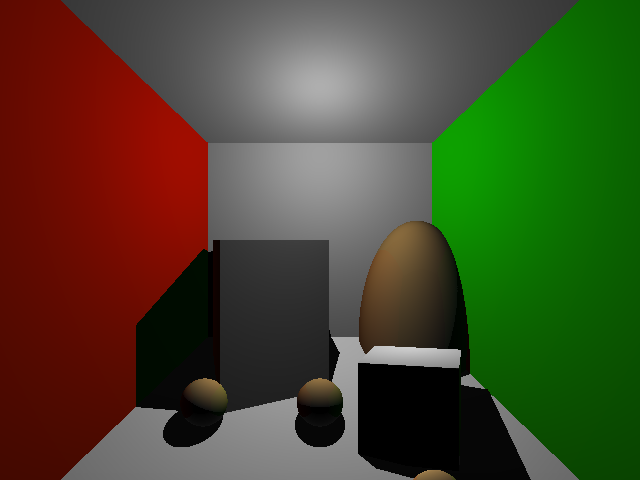
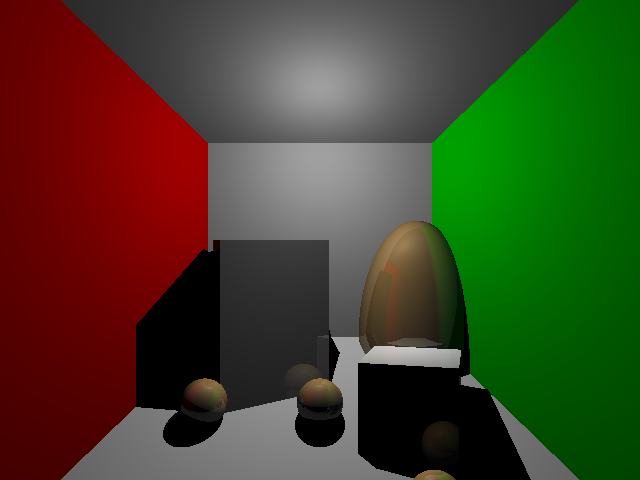
test4 all pass; fixed specularity

diff --git a/hw4/main.cpp b/hw4/main.cpp
@@ -325,7 +325,7 @@ vec3 ComputeColor(hit_record closest, int index)
         ref.ori = ref.ori + float(0.001) * ref.dir;
         hit_record nextBounce = Intersection(obj, ref);
         if (nextBounce.t>0.0){
-            finalcolor += nextBounce.target->_specular * ComputeColor(nextBounce, index - 1);
+            finalcolor += closest.target->_specular * ComputeColor(nextBounce, index - 1);
         }
 
         return finalcolor;
